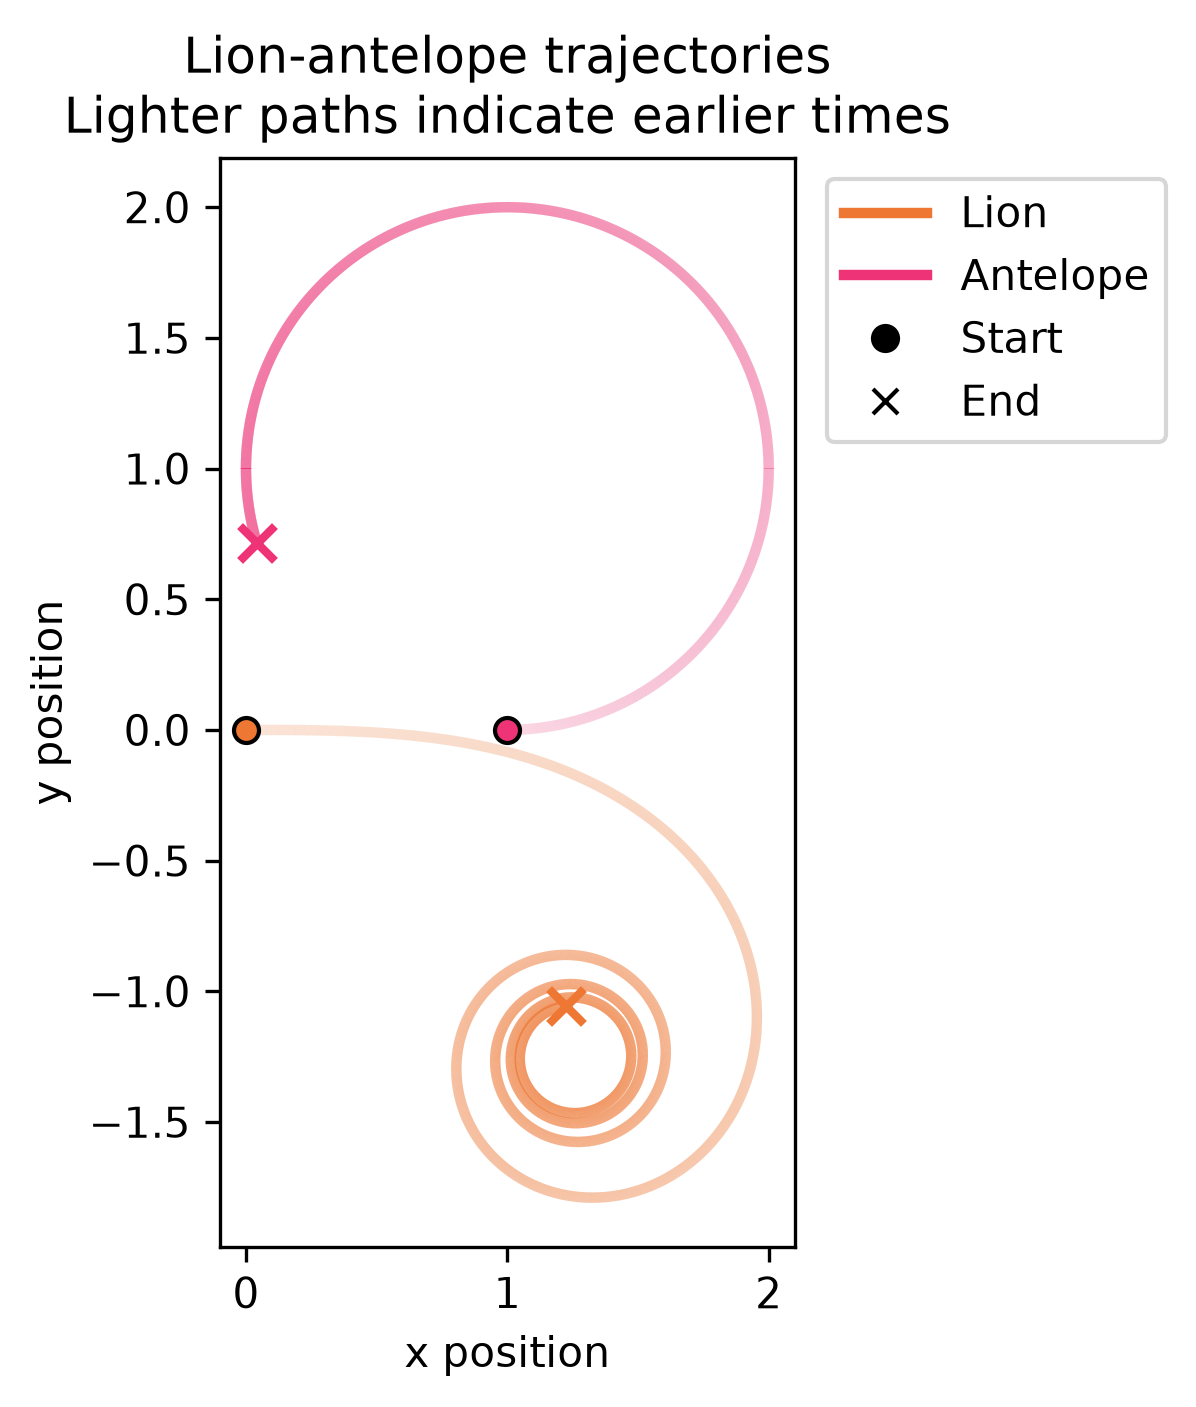
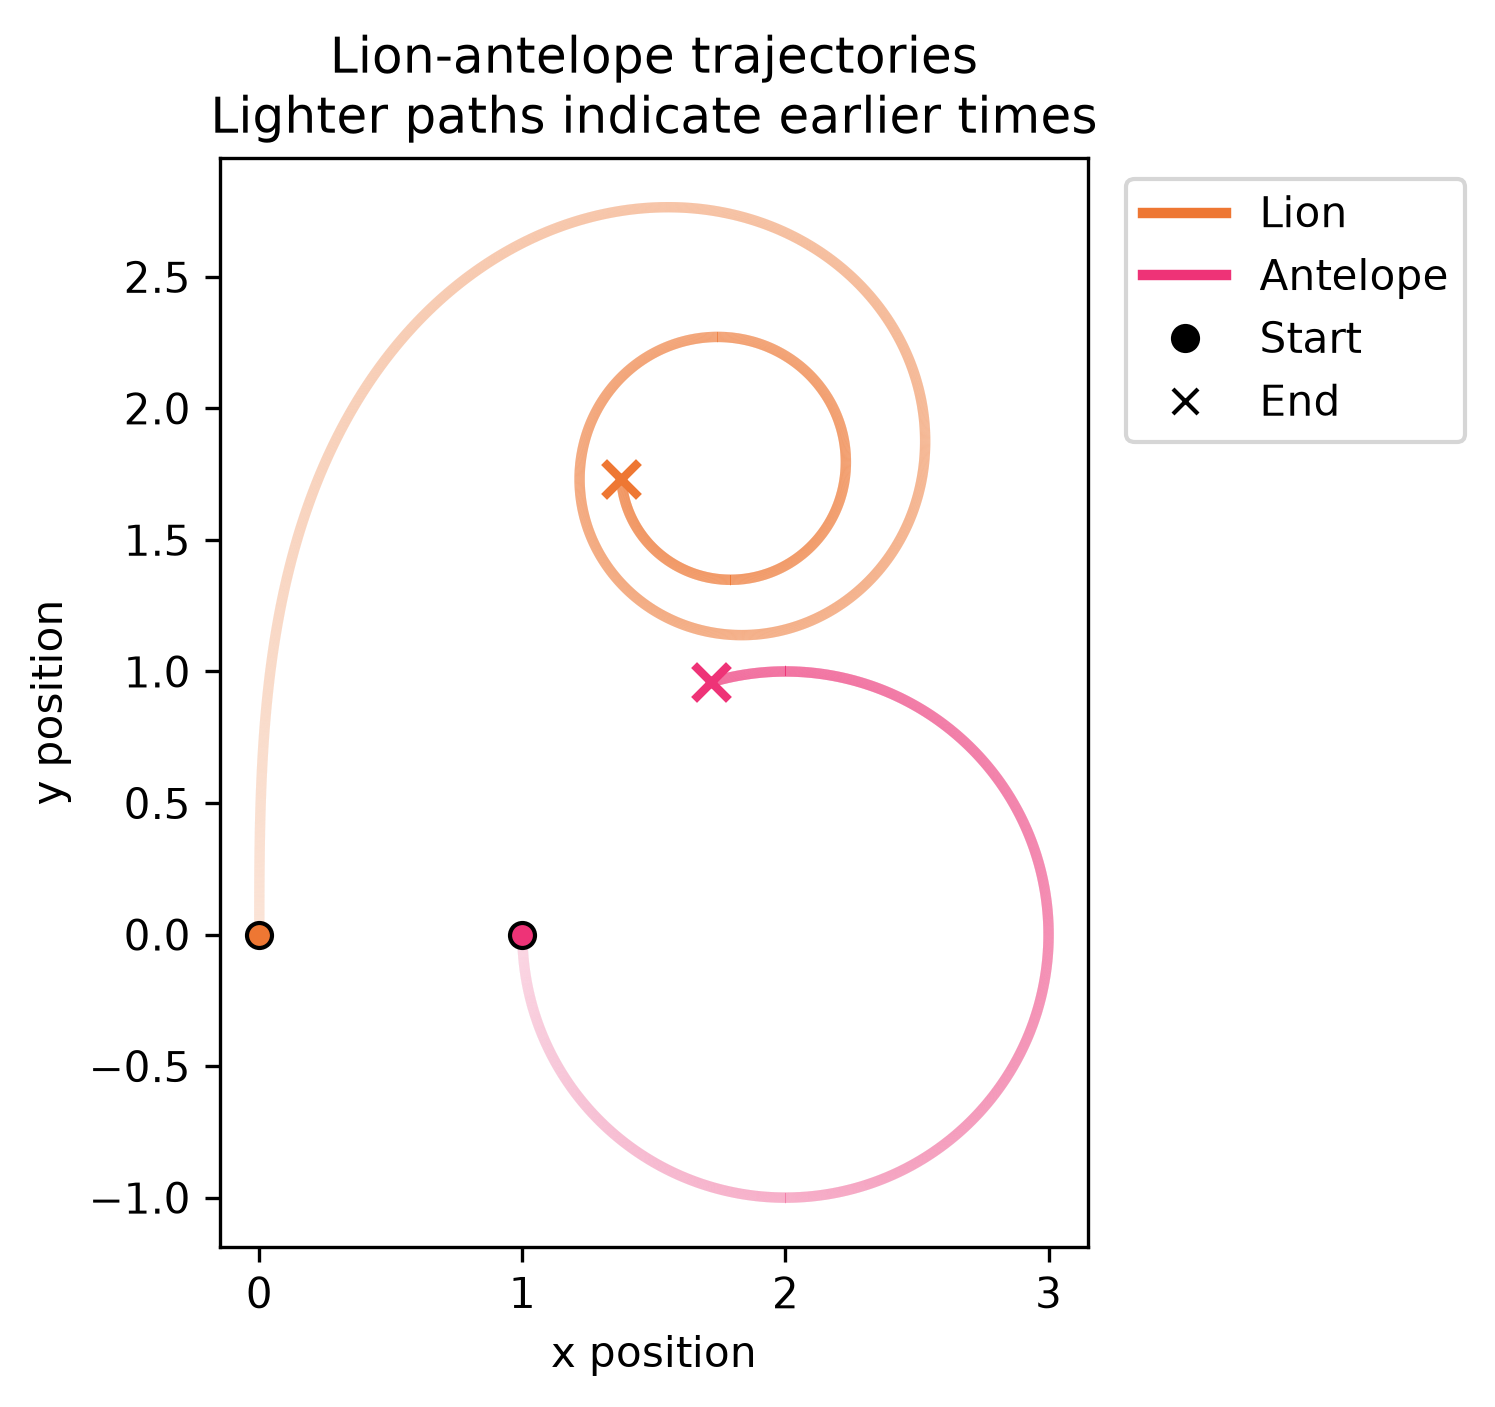
Finished assignment. Just testing different solutions for challenge.py

diff --git a/test.py b/test.py
@@ -1,0 +1,176 @@
+"""Explore Q4 antelope performance against several legal lion steering policies.
+
+Run with: python test.py
+Plots are saved outside the project under your system temporary directory.
+These are hypothetical opponents, not predictions of other students' submissions.
+"""
+
+import math
+import tempfile
+from pathlib import Path
+
+import matplotlib
+
+matplotlib.use("Agg")
+import matplotlib.pyplot as plt
+import numpy as np
+
+import challenge
+
+
+OUTPUT_DIR = Path(tempfile.gettempdir()) / "mat292_challenge_tests"
+
+
+def steer_toward(x, target, gain=1.0):
+    """Turn the lion toward a target with the Q4 limit |JL| <= 1."""
+    error = (target - x[2] + math.pi) % (2 * math.pi) - math.pi
+    return float(np.clip(gain * error, -1, 1))
+
+
+def pure_pursuit(t, x):
+    """More aggressive than the assignment's unit-gain clip-wrap lion."""
+    return steer_toward(x, math.atan2(x[4] - x[1], x[3] - x[0]), 4)
+
+
+def lead_pursuit(t, x):
+    """Aim at a constant-velocity interception point using current prey velocity."""
+    dx, dy = x[3] - x[0], x[4] - x[1]
+    speed_a = 1 / (1 + t * t)
+    vx, vy = speed_a * math.cos(x[5]), speed_a * math.sin(x[5])
+    # |relative position + prey velocity * tau| = lion speed * tau.
+    b = dx * vx + dy * vy
+    c = dx * dx + dy * dy
+    tau = (b + math.sqrt(b * b + (challenge.vL**2 - speed_a**2) * c)) / (
+        challenge.vL**2 - speed_a**2
+    )
+    return steer_toward(x, math.atan2(dy + vy * tau, dx + vx * tau), 4)
+
+
+def proportional_navigation(t, x):
+    """Turn using line-of-sight rotation, plus a small pursuit correction."""
+    dx, dy = x[3] - x[0], x[4] - x[1]
+    speed_a = 1 / (1 + t * t)
+    rvx = speed_a * math.cos(x[5]) - challenge.vL * math.cos(x[2])
+    rvy = speed_a * math.sin(x[5]) - challenge.vL * math.sin(x[2])
+    los_rate = (dx * rvy - dy * rvx) / max(dx * dx + dy * dy, 0.05**2)
+    error = (math.atan2(dy, dx) - x[2] + math.pi) % (2 * math.pi) - math.pi
+    return float(np.clip(3 * los_rate + 0.5 * error, -1, 1))
+
+
+def straight_lion(t, x):
+    return 0.0
+
+
+def left_turn_lion(t, x):
+    return 1.0
+
+
+def right_turn_lion(t, x):
+    return -1.0
+
+
+OPPONENTS = {
+    "Benchmark (clip-wrap)": challenge.JL_bench,
+    "Fast pure pursuit": pure_pursuit,
+    "Lead interception": lead_pursuit,
+    "Proportional navigation": proportional_navigation,
+    "Straight heading": straight_lion,
+    "Always turn left": left_turn_lion,
+    "Always turn right": right_turn_lion,
+}
+
+
+def capture_time(solution):
+    return float(solution.t_events[0][0]) if len(solution.t_events[0]) else None
+
+
+def sampled_states(solution):
+    times = np.linspace(0, solution.t[-1], 500)
+    return times, solution.sol(times)
+
+
+def plot_results(results, reference):
+    # Every opponent gets its own trajectory panel, including the benchmark.
+    fig, axes = plt.subplots(3, 3, figsize=(15, 13), constrained_layout=True)
+    for ax, (name, solution) in zip(axes.flat, results.items()):
+        _, states = sampled_states(solution)
+        ax.plot(states[0], states[1], color="#db682a", label="Lion")
+        ax.plot(states[3], states[4], color="#d72d79", label="Your antelope")
+        ax.scatter([states[0, 0], states[3, 0]], [states[1, 0], states[4, 0]],
+                   c=["#db682a", "#d72d79"], marker="o", s=22)
+        ax.scatter([states[0, -1], states[3, -1]],
+                   [states[1, -1], states[4, -1]],
+                   c=["#db682a", "#d72d79"], marker="x", s=45)
+        caught = capture_time(solution)
+        ax.set_title(f"{name}\n" + (f"Captured: {caught:.3f}" if caught is not None
+                                       else "Not captured by 10"))
+        ax.set_aspect("equal", adjustable="datalim")
+        ax.grid(alpha=0.2)
+        ax.set_xlabel("x")
+        ax.set_ylabel("y")
+    for ax in list(axes.flat)[len(results):]:
+        ax.set_visible(False)
+    axes.flat[0].legend(loc="best", fontsize=8)
+    fig.suptitle("Q4: your antelope against hypothetical lion strategies", fontsize=16)
+    fig.savefig(OUTPUT_DIR / "trajectories.png", dpi=150)
+    plt.close(fig)
+
+    fig, ax = plt.subplots(figsize=(11, 5), constrained_layout=True)
+    names = list(results)
+    scores = [capture_time(sol) or challenge.Tmax for sol in results.values()]
+    reference_time = capture_time(reference)
+    ax.barh(names, scores, color=["#4477aa" if i == 0 else "#d72d79"
+                                  for i in range(len(names))])
+    if reference_time is not None:
+        ax.axvline(reference_time, color="black", linestyle="--",
+                   label=f"Benchmark antelope vs benchmark lion: {reference_time:.3f}")
+    for i, (score, solution) in enumerate(zip(scores, results.values())):
+        text = f"{score:.3f}" if capture_time(solution) is not None else "10+ (no capture)"
+        ax.text(score + 0.05, i, text, va="center", fontsize=9)
+    ax.set_xlim(0, challenge.Tmax + 2.3)
+    ax.invert_yaxis()
+    ax.set_xlabel("Survival score (higher is better; capped at 10)")
+    ax.set_title("Capture times against each lion")
+    ax.legend(loc="lower right")
+    ax.grid(axis="x", alpha=0.2)
+    fig.savefig(OUTPUT_DIR / "scores.png", dpi=150)
+    plt.close(fig)
+
+    fig, ax = plt.subplots(figsize=(11, 6), constrained_layout=True)
+    for name, solution in results.items():
+        times, states = sampled_states(solution)
+        distance = np.hypot(states[3] - states[0], states[4] - states[1])
+        ax.plot(times, distance, label=name)
+    ax.axhline(challenge.r_collision, color="black", linestyle="--",
+               label="Capture radius")
+    ax.set(xlabel="Time", ylabel="Lion–antelope separation",
+           title="Separation until capture or t = 10", xlim=(0, challenge.Tmax))
+    ax.legend(fontsize=8)
+    ax.grid(alpha=0.2)
+    fig.savefig(OUTPUT_DIR / "separation.png", dpi=150)
+    plt.close(fig)
+
+
+def main():
+    if challenge.TEAM != "antelope":
+        raise ValueError("This experiment expects TEAM = 'antelope'.")
+    OUTPUT_DIR.mkdir(parents=True, exist_ok=True)
+    reference = challenge.simulator(challenge.JL_bench, challenge.JA_bench)
+    results = {}
+    for name, lion in OPPONENTS.items():
+        solution = challenge.simulator(lion, challenge.J_strategy)
+        results[name] = solution
+        caught = capture_time(solution)
+        print(f"{name:25s}: " + (f"captured at {caught:.6f}" if caught is not None
+                                    else f"no capture by {challenge.Tmax:g}"))
+    baseline = capture_time(reference)
+    print("Benchmark vs benchmark: " + (f"captured at {baseline:.6f}" if baseline is not None
+                                          else f"no capture by {challenge.Tmax:g}"))
+    plot_results(results, reference)
+    print(f"Plots: {OUTPUT_DIR / 'trajectories.png'}")
+    print(f"       {OUTPUT_DIR / 'scores.png'}")
+    print(f"       {OUTPUT_DIR / 'separation.png'}")
+
+
+if __name__ == "__main__":
+    main()

diff --git a/challenge.py b/challenge.py
@@ -27,7 +27,7 @@ from q3 import collision_event as q3_collision_event, r_collision as q3_r_collis
 import utils
 
 
-TEAM = "" # Enter "lion" or "antelope". This is based on your student ID, see assignment PDF.
+TEAM = "antelope" # Enter "lion" or "antelope". This is based on your student ID, see assignment PDF.
 TEAMNAME = "" # Enter a nickname for your team. The leaderboard will show this nickname, not your real name(s).
 max_step    = 0.0005
 Tmax        = 10
@@ -59,7 +59,18 @@ def J_strategy(t, x):
         t = time,
     Remember to obey the steering constraints from the assignment instructions.
     """
-    # YOUR CODE HERE
+    theta = np.arctan2(x[4]-x[1], x[3]-x[0])
+    if x[2] < 0:
+        theta -= np.pi/4
+    wrap = ((theta - x[5] + np.pi)%(2*np.pi)) - np.pi
+    steering_rate = wrap
+    JAmax = 2
+    if (wrap < -JAmax):
+        steering_rate = -JAmax
+    elif (wrap > JAmax):
+        steering_rate = JAmax
+        
+    return steering_rate
     raise NotImplementedError()
 
 def simulator(JL, JA):

diff --git a/q2.py b/q2.py
@@ -29,7 +29,15 @@ def J_cw_lion(t,x):
     JLmax the maximum turning rate is defined globally in this file, so it can
     be accessed without passing it as an input.
     """
-    
+
+    theta = np.arctan2(x[4]-x[1], x[3]-x[0])
+    wrap = ((theta - x[2] + np.pi)%(2*np.pi)) - np.pi
+    steering_rate = wrap
+    if (wrap < -JLmax):
+        steering_rate = -JLmax
+    elif (wrap > JLmax):
+        steering_rate = JLmax
+    return steering_rate
     raise NotImplementedError()
 
 
@@ -37,7 +45,16 @@ def J_cw_lion(t,x):
 def J_cw_ante(t,x):
     """Use clip-wrap steering to turn the antelope counter-clockwise
     perpendicular to vector from lion to antelope."""
-    # YOUR CODE HERE
+
+    theta = np.arctan2(x[4]-x[1], x[3]-x[0]) + np.pi/2
+    wrap = ((theta - x[5] + np.pi)%(2*np.pi)) - np.pi
+    steering_rate = wrap
+    if (wrap < -JAmax):
+        steering_rate = -JAmax
+    elif (wrap > JAmax):
+        steering_rate = JAmax
+    return steering_rate
+
     raise NotImplementedError()
 
 # Question 2(c)

diff --git a/q1.py b/q1.py
@@ -33,7 +33,7 @@ def lion_ante_rhs(t,x,vL,vA,JL,JA):
     Return dx = [dxL,dyL,dphiL,dxA,dyA,dphiA].
     """
     
-    return [vL*np.cos(JL(t, x)*t), vL*np.sin(JL(t, x)*t), JL(t, x), vA*np.cos(JA(t, x)*t), vA*np.sin(JA(t, x)*t), JA(t, x)]
+    return [vL*np.cos(x[2]), vL*np.sin(x[2]), JL(t, x), vA*np.cos(x[5]), vA*np.sin(x[5]), JA(t, x)]
     raise NotImplementedError()
 
 if __name__ == "__main__":

diff --git a/q3.py b/q3.py
@@ -24,9 +24,9 @@ max_step = 0.0005
 # Question 3(a)
 def collision_event(t,x):
     """Return separation minus the capture radius."""
-    # YOUR CODE HERE
+    return np.sqrt(pow(np.abs(x[0] - x[3]), 2) + pow(np.abs(x[1]- x[4]), 2)) - r_collision
     raise NotImplementedError()
-    
+
 collision_event.terminal  = True
 
 
